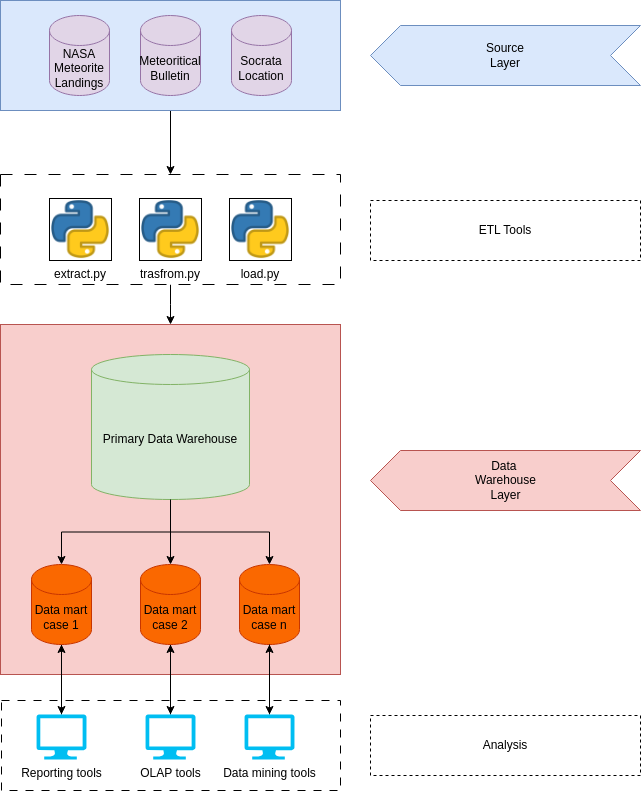
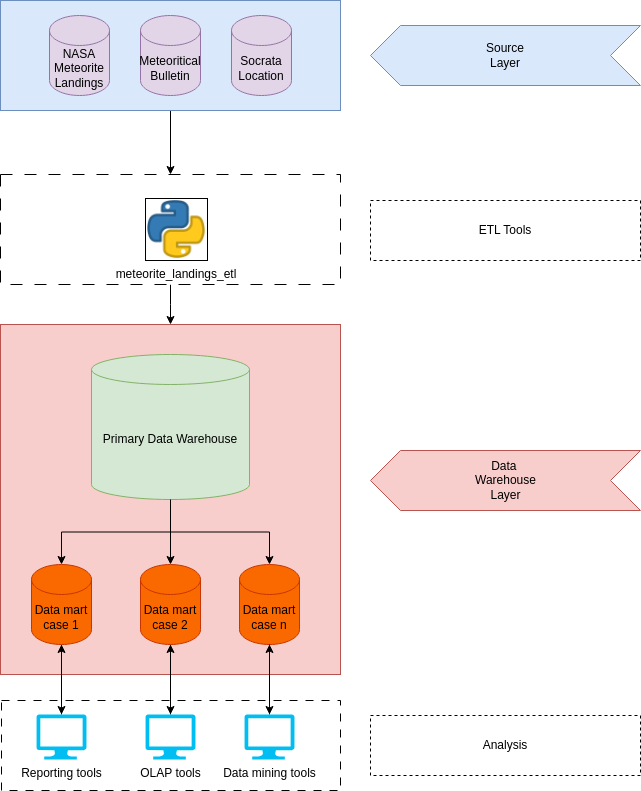
Defined DW system architecture and the ETL process

diff --git a/main.tex b/main.tex
@@ -50,24 +50,26 @@
 	In this architecture there is an additional layer, the reconcilied data layer, that it creates a common reference data model for a whole enterprise. At the same time, it sharply separates the problems of source data extraction and integration from those of DWH population. However the reconciled data leads to more replication of operational source data and the	design process is complicated. \\
 			
 	\subsection{Meteorite Landings - Architecture}
+	We consider that, for our purposes, it is better to use the 2LA because we do not have many data sources, the ETL process is simple, and it can be managed on the fly. However, it is important to consider that in a real scenario, a good choice would be to use a 3LA. With this architecture, it is possible to separate Data Staging from Data Loading through the Reconciled Data Layer. This allows for the design of simpler and more efficient ETL tools, each focused on solving one specific task (e.g., \texttt{extract.py}, \texttt{transform.py}, \texttt{load.py}). Additionally, using containerized technologies like Kubernetes or Docker can enable horizontal scaling of these tools, allowing the system to be reactive in case of increased computational load or growth in the data sources.\\ For simplicity, we use Docker to distribute the application in the simplest way possible, but this does not mean that the application is scalable.\\
+	As shown in Figure~\ref{fig:Meteorite Landings System Architecture}, we have the following components in our Architecture:
+	\begin{itemize}
+		\item \textbf{Datasets: (Meteorite Landings, Meteoritical Bulletin, Socrata Location)}
+		\item \textbf{ETL: (meteorite\_landings\_etl)}
+		\item \textbf{Primary DWH: PostgreSQL}
+		\item \textbf{Data marts: out of scope}  
+	\end{itemize}
 	\begin{figure}[htpb]
 		\centering
 		\includegraphics[width=\columnwidth]{images/system_architecture.png}
 		\caption{Meteorite Landings System Architecture}
 		\label{fig:Meteorite Landings System Architecture}
 	\end{figure}
-	We consider that for our purpose is better to use the 2LA, because we have not many data sources and then we can achieve the same result in this most simple way, because we can manage the enteire DWH system without using the Reconcilied Data.  In our architecture we identified the following components:
-	\begin{itemize}
-		\item \textbf{Datasets: (Meteorite Landings, Meteoritical Bulletin, Socrata Location)}
-		\item \textbf{ETL: (extract.py, transform.py, load.py)}
-		\item \textbf{Primary DWH: PostgreSQL}
-		\item \textbf{Data marts: out of scope}  
-	\end{itemize}
 	
 	\section{Source Layer}
 	
 	\subsection{Meteorite Landings Dataset}
-	This comprehensive data set from The Meteoritical Society contains information on all of the known meteorite landings. The Fusion Table is collected by Javier de la Torre and we've also provided an XLS file that consists of 34,513 meteorites. \\
+	\label{subsec:meteorite landings data set}
+	This comprehensive data set from The Meteoritical Society contains information on all of the known meteorite landings. The Fusion Table is collected by Javier de la Torre and we've also provided an XLS file that consists of 34.513 meteorites. \\
 	\href{https://data.nasa.gov/Space-Science/Meteorite-Landings/gh4g-9sfh/about_data}{NASA's Open Data Portal}
 	
 	\subsection{Meteoritical Bulletin Database}
@@ -79,9 +81,16 @@
 	\href{https://dev.socrata.com/docs/datatypes/location.html#}{Tyler Technologies - Socdata}
 				
 	\section{ETL tools}
-	The tools are developed in python, each of them has a specific goal and we would dockeraize our python scripts to allowing an horizontal scale-up in case of the data to elaborate grows or we need more computation in the trasforming or loading. We think this could be a good techincal choise in the application lifetime. This is the reason why we will use the dockers to run our scripts. For the same reason we would make a phisical separation of each software/script, each of them should resolve only one task.   
+	The ETL process is achieved using \textbf{meteorite\_landings\_etl}.\\ It is a software developed in Python containing the following modules:
+	\begin{itemize}
+		\item \textbf{extract} - Reads the data from the dataset \ref{subsec:meteorite landings data set}
+		\item \textbf{transform} - Reads the data rows from the extract module and therefore it is responsible to make cleaning and trasformation the data, using the other datasets and the information meta-data.
+		\item \textbf{load} - Reads the row data updated by the trasform module, then load them in the DWH database 
+	\end{itemize}
+	The details are described in the following sections.
 	\subsection{Extract}
-	Data extraction scripts are written in Python, using libraries like `pandas` to read and process data files.
+    Extraction is the process that allows us to obtain data from sources, and we know that this operation can be either static (generally used when the DWH needs to be populated for the first time) or incremental (used to update the DWH regularly). Since our datasets are not updated at regular intervals, we have decided to implement only static extraction. If an update is required, we will back up the previous DWH and then populate a new DWH system.\\ The extraction will return the following data rows:
+    
 	
 	\subsection{Transform}
 	The transformation process includes converting geo-coordinates to human-readable formats and normalizing data formats across all datasets.
